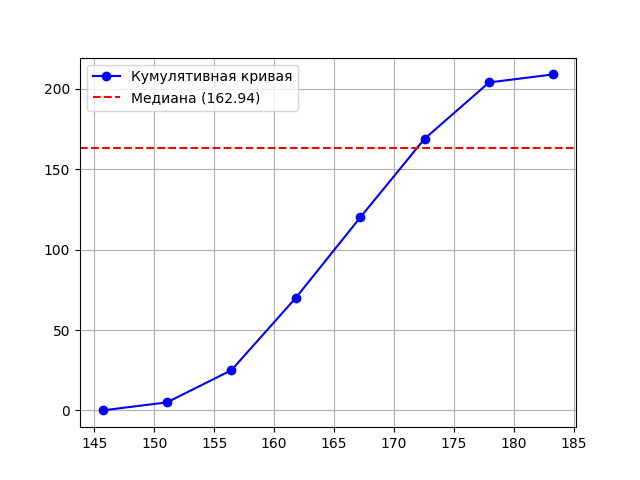
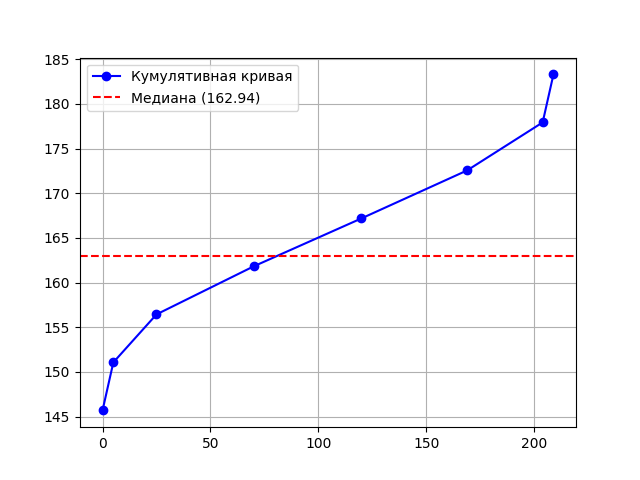
add output

diff --git a/src/stats/plotting.py b/src/stats/plotting.py
@@ -57,7 +57,7 @@ def plot_cumulative(variation_series:Variation | IntervalVariationSeries, dir_na
 
 def plot_ogive(variation_series: IntervalVariationSeries, dir_name: str):
     
-    plt.plot(variation_series.bin_centers, variation_series.cumulative_values, 
+    plt.plot(variation_series.cumulative_values, variation_series.bin_centers, 
         marker="o",
         color="blue",
         label="Кумулятивная кривая",)
